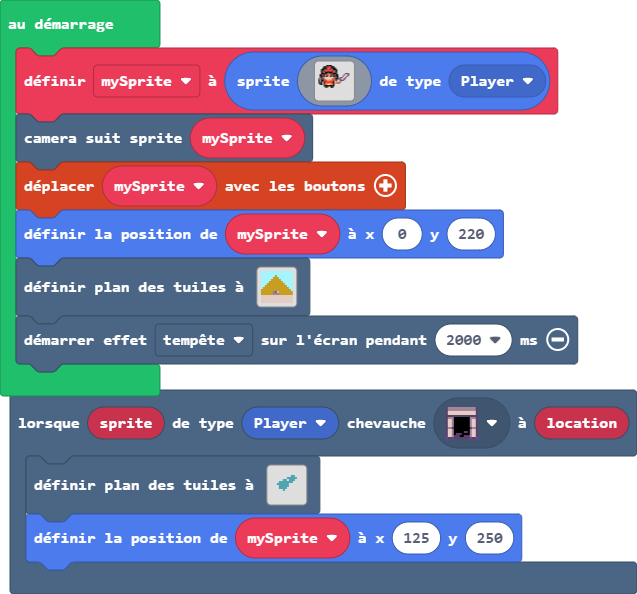
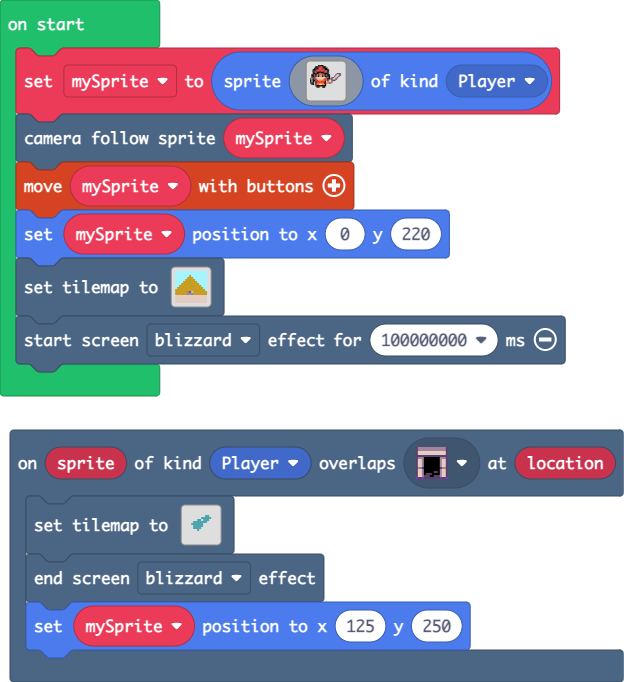
Update main.blocks, main.ts, tilemap.g.jres, tilemap.g.ts

diff --git a/tilemap.g.ts b/tilemap.g.ts
@@ -1,4 +1,4 @@
-// Code généré automatiquement. Ne pas modifier.
+// Auto-generated code. Do not edit.
 namespace myTiles {
     //% fixedInstance jres blockIdentity=images._tile
     export const transparency16 = image.ofBuffer(hex``);
@@ -15,25 +15,6 @@ namespace myTiles {
 
     helpers._registerFactory("tilemap", function(name: string) {
         switch(helpers.stringTrim(name)) {
-            case "entrée pyramide":
-            case "level1":return tiles.createTilemap(hex`1000100008080808080808080808080808080808080808080808080808080808080808080808080808080806080808080808080808080808080806060608080808080808080808080806060606060808080808080808080806060606060606080808080808080806060606060606060608080808080806060606060606060606060808080806060606060606060606060606080806060606060606060606060606060608060606060606030504060606060606060606060606060301020606060606060607070707070707070707070707070707070707070707070707070707070707070707070707070707070707070707070707070707070707070707070707070707`, img`
-. . . . . . . . . . . . . . . . 
-. . . . . . . . . . . . . . . . 
-. . . . . . . . . . . . . . . . 
-. . . . . . . . . . . . . . . . 
-. . . . . . . . . . . . . . . . 
-. . . . . . . . . . . . . . . . 
-. . . . . . . . . . . . . . . . 
-. . . . . . . . . . . . . . . . 
-. . . . . . . . . . . . . . . . 
-. . . . . . . . . . . . . . . . 
-. . . . . . . . . . . . . . . . 
-. . . . . . . . . . . . . . . . 
-. . . . . . . . . . . . . . . . 
-. . . . . . . . . . . . . . . . 
-. . . . . . . . . . . . . . . . 
-. . . . . . . . . . . . . . . . 
-`, [myTiles.transparency16,sprites.dungeon.stairNorth,sprites.dungeon.floorDark5,sprites.dungeon.floorDark1,sprites.dungeon.floorLightMoss,sprites.dungeon.doorOpenNorth,myTiles.tile4,sprites.castle.tilePath5,myTiles.tile3], TileScale.Sixteen);
             case "level3":
             case "level3":return tiles.createTilemap(hex`1000100000000000000000000000000000000000000000000000000000000000000000000000000000000000000000000000000000000000000000000000000000000000000000000000000000000000000000000000000000000000000000000000000000000000000000000000000000000000000000000000000000000000000000000000000000000000000000000000000000000000000000000000000000000000000000000000000000000000000000000000000000000000000000000000000000000000000000000000000000000000000000000000000000000000000000000000000000000000000000000000000000000000000000000000000000000000`, img`
 . . . . . . . . . . . . . . . . 
@@ -110,6 +91,63 @@ namespace myTiles {
 . . . . . . . . . . . . . . . . 
 . . . . . . . . . . . . . . . . 
 `, [myTiles.transparency16], TileScale.Sixteen);
+            case "level6":
+            case "level6":return tiles.createTilemap(hex`1000100000000000000000000000000000000000000000000000000000000000000000000000000000000000000000000000000000000000000000000000000000000000000000000000000000000000000000000000000000000000000000000000000000000000000000000000000000000000000000000000000000000000000000000000000000000000000000000000000000000000000000000000000000000000000000000000000000000000000000000000000000000000000000000000000000000000000000000000000000000000000000000000000000000000000000000000000000000000000000000000000000000000000000000000000000000000`, img`
+. . . . . . . . . . . . . . . . 
+. . . . . . . . . . . . . . . . 
+. . . . . . . . . . . . . . . . 
+. . . . . . . . . . . . . . . . 
+. . . . . . . . . . . . . . . . 
+. . . . . . . . . . . . . . . . 
+. . . . . . . . . . . . . . . . 
+. . . . . . . . . . . . . . . . 
+. . . . . . . . . . . . . . . . 
+. . . . . . . . . . . . . . . . 
+. . . . . . . . . . . . . . . . 
+. . . . . . . . . . . . . . . . 
+. . . . . . . . . . . . . . . . 
+. . . . . . . . . . . . . . . . 
+. . . . . . . . . . . . . . . . 
+. . . . . . . . . . . . . . . . 
+`, [myTiles.transparency16], TileScale.Sixteen);
+            case "entrée pyramide":
+            case "level1":return tiles.createTilemap(hex`1000100008080808080808080808080808080808080808080808080808080808080808080808080808080806080808080808080808080808080806060608080808080808080808080806060606060808080808080808080806060606060606080808080808080806060606060606060608080808080806060606060606060606060808080806060606060606060606060606080806060606060606060606060606060608060606060606030504060606060606060606060606060301020606060606060607070707070707070707070707070707070707070707070707070707070707070707070707070707070707070707070707070707070707070707070707070707`, img`
+. . . . . . . . . . . . . . . . 
+. . . . . . . . . . . . . . . . 
+. . . . . . . . . . . . . . . . 
+. . . . . . . . . . . . . . . . 
+. . . . . . . . . . . . . . . . 
+. . . . . . . . . . . . . . . . 
+. . . . . . . . . . . . . . . . 
+. . . . . . . . . . . . . . . . 
+. . . . . . . . . . . . . . . . 
+. . . . . 2 2 2 2 2 . . . . . . 
+. . . . . 2 . . . 2 . . . . . . 
+2 2 2 2 2 2 . . . 2 2 2 2 2 2 2 
+. . . . . . . . . . . . . . . . 
+. . . . . . . . . . . . . . . . 
+. . . . . . . . . . . . . . . . 
+. . . . . . . . . . . . . . . . 
+`, [myTiles.transparency16,sprites.dungeon.stairNorth,sprites.dungeon.floorDark5,sprites.dungeon.floorDark1,sprites.dungeon.floorLightMoss,sprites.dungeon.doorOpenNorth,myTiles.tile4,sprites.castle.tilePath5,myTiles.tile3], TileScale.Sixteen);
+            case "labyrinthelvl1":
+            case "labyrinthelvl1":return tiles.createTilemap(hex`1000100001010101010101010101010101010101010202020202020202020202020202020102020202020202020202020202020101020202020202020202020202020201010202020202020202020202020202010102020202020202020202020202020101020202020202020202020202020201010202020202020202020202020202010102020202020202020202020202020101020203030202020202020202020201010203030302020202020202020202010102020203020202020202020303020101020302030302020202020203020201010203020202030303030302030203010102020303020202020202020302020101010101010101010201010101010101`, img`
+. . . . . . . . . . . . . . . . 
+. . . . . . . . . . . . . . . . 
+. . . . . . . . . . . . . . . . 
+. . . . . . . . . . . . . . . . 
+. . . . . . . . . . . . . . . . 
+. . . . . . . . . . . . . . . . 
+. . . . . . . . . . . . . . . . 
+. . . . . . . . . . . . . . . . 
+. . . . . . . . . . . . . . . . 
+. . . . . . . . . . . . . . . . 
+. . . . . . . . . . . . . . . . 
+. . . . . . . . . . . . . . . . 
+. . . . . . . . . . . . . . . . 
+. . . . . . . . . . . . . . . . 
+. . . . . . . . . . . . . . . . 
+. . . . . . . . . . . . . . . . 
+`, [myTiles.transparency16,myTiles.tile4,sprites.dungeon.darkGroundCenter,sprites.dungeon.floorDark0], TileScale.Sixteen);
         }
         return null;
     })
@@ -132,4 +170,4 @@ namespace myTiles {
     })
 
 }
-// Code généré automatiquement. Ne pas modifier.
+// Auto-generated code. Do not edit.

diff --git a/main.ts b/main.ts
@@ -1,5 +1,6 @@
 scene.onOverlapTile(SpriteKind.Player, sprites.dungeon.doorOpenNorth, function (sprite, location) {
     tiles.setTilemap(tilemap`level2`)
+    effects.blizzard.endScreenEffect()
     mySprite.setPosition(125, 250)
 })
 let mySprite: Sprite = null
@@ -33,4 +34,4 @@ scene.cameraFollowSprite(mySprite)
 controller.moveSprite(mySprite)
 mySprite.setPosition(0, 220)
 tiles.setTilemap(tilemap`entrée pyramide`)
-effects.blizzard.startScreenEffect(2000)
+effects.blizzard.startScreenEffect(100000000)
